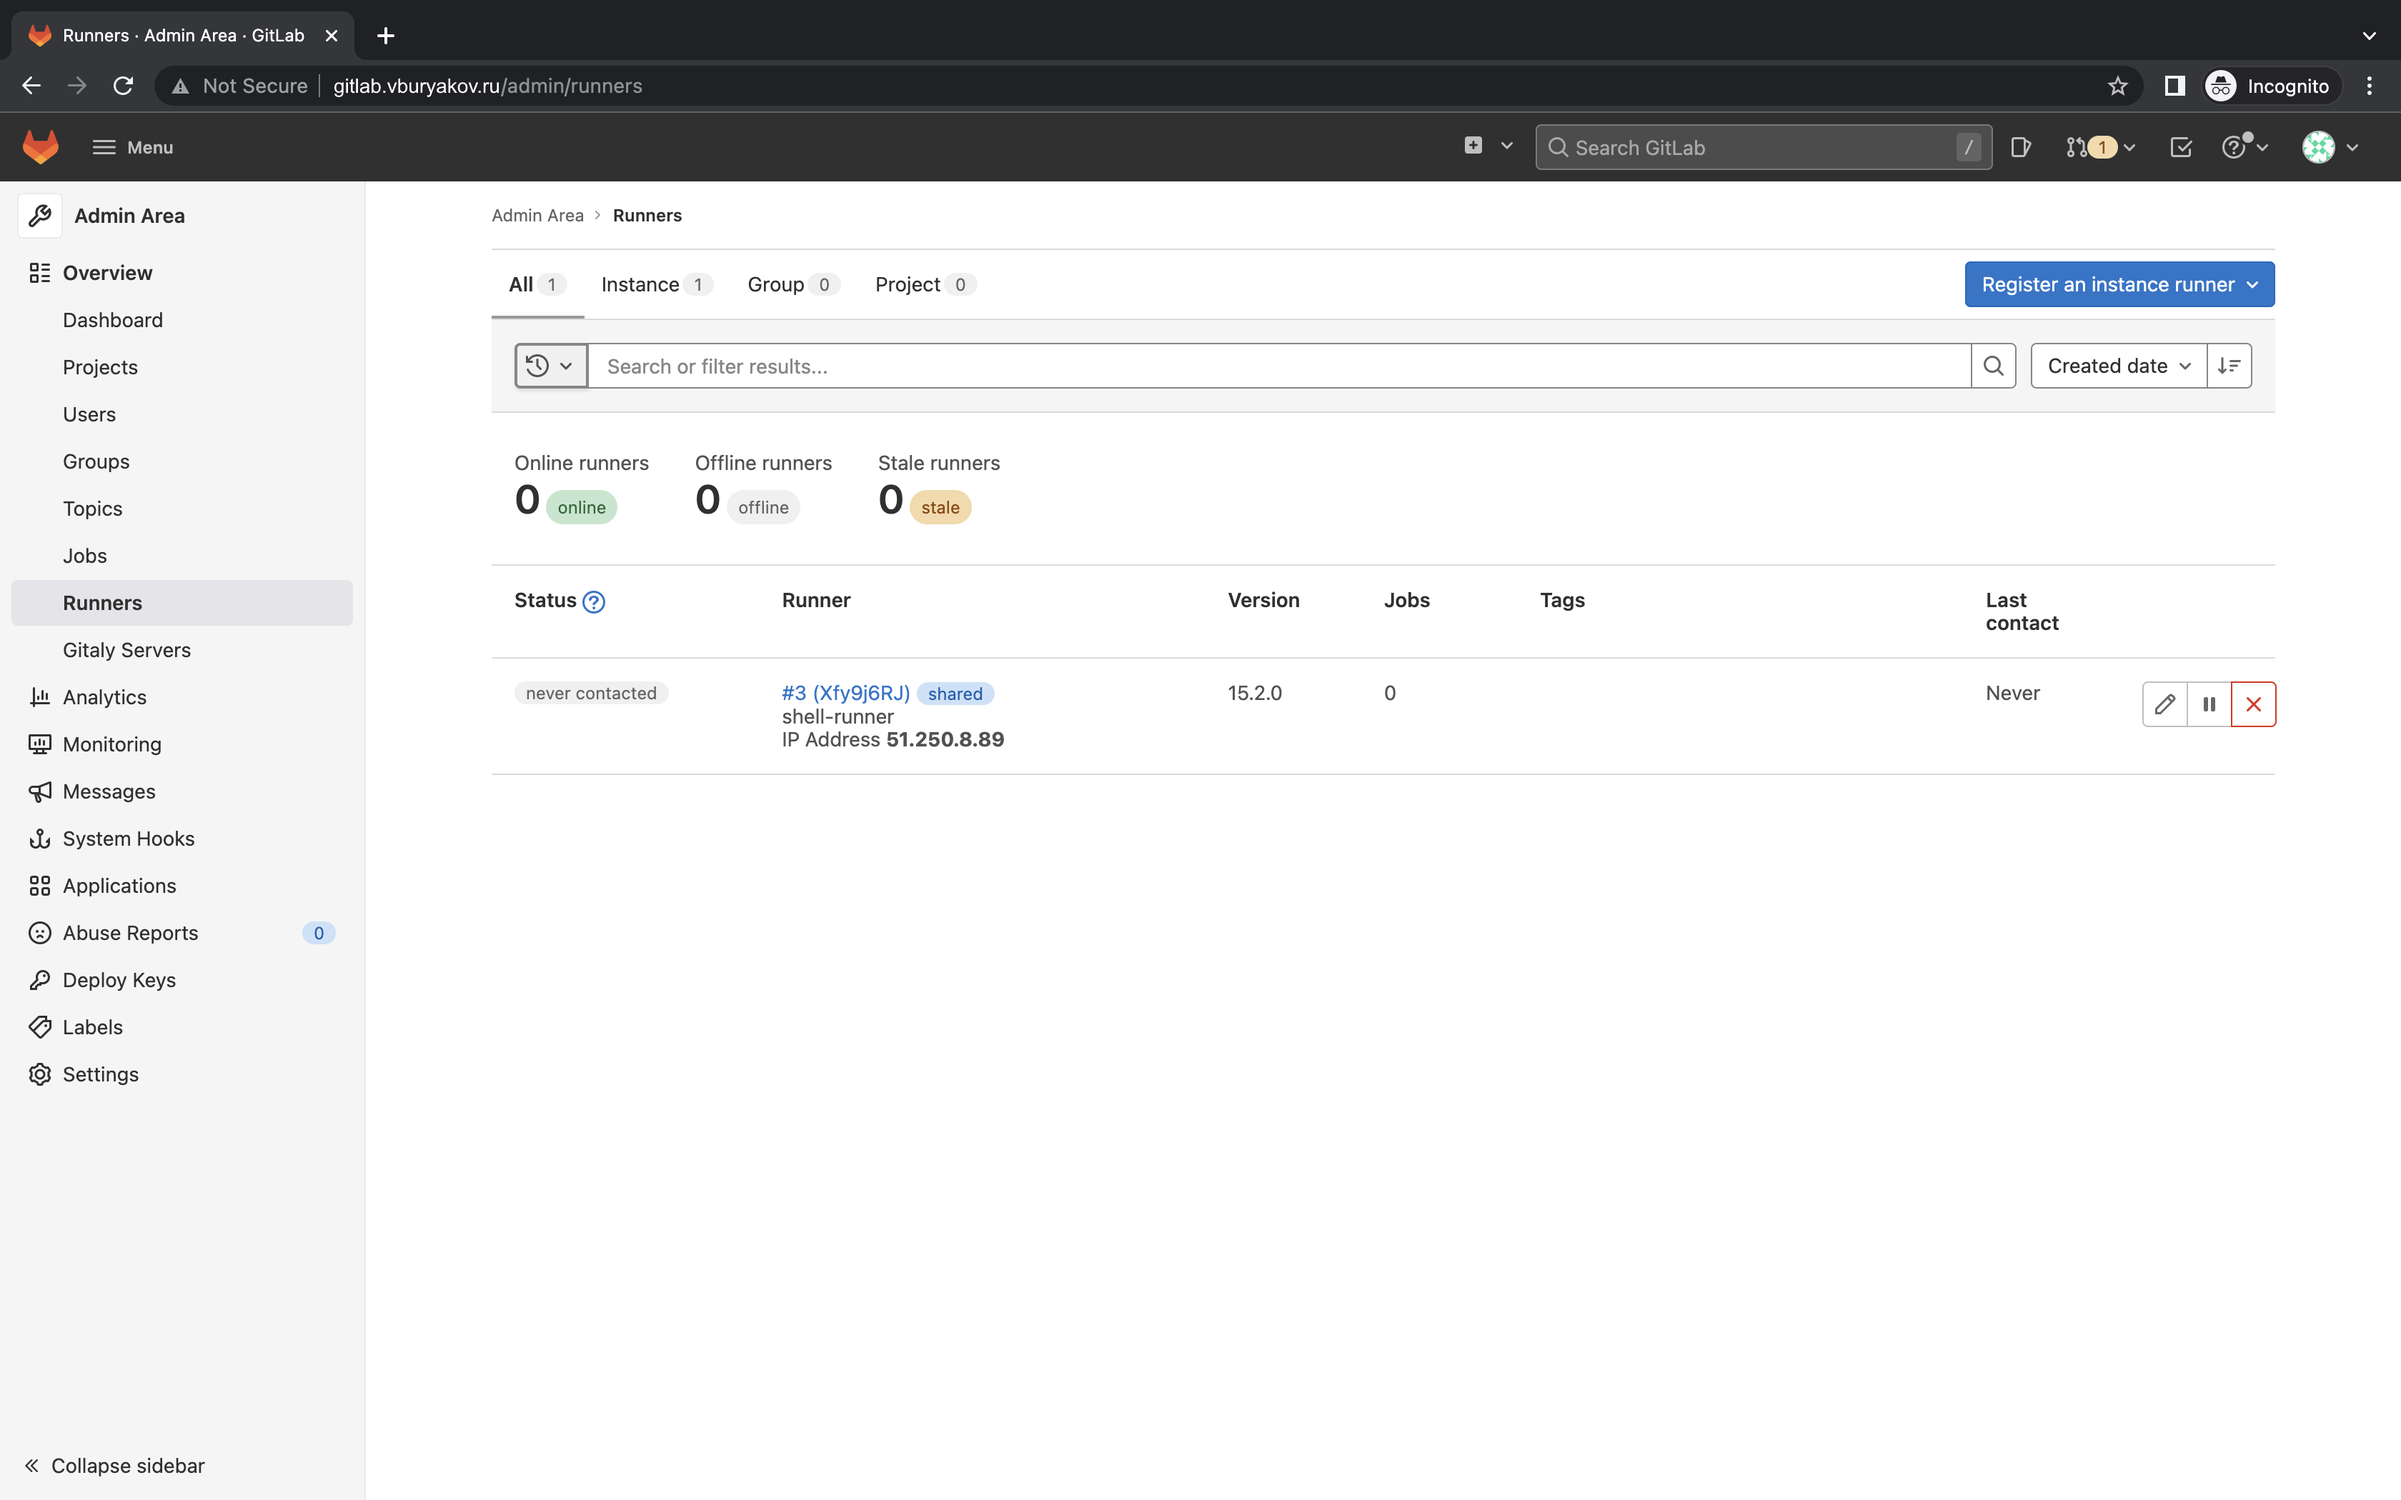
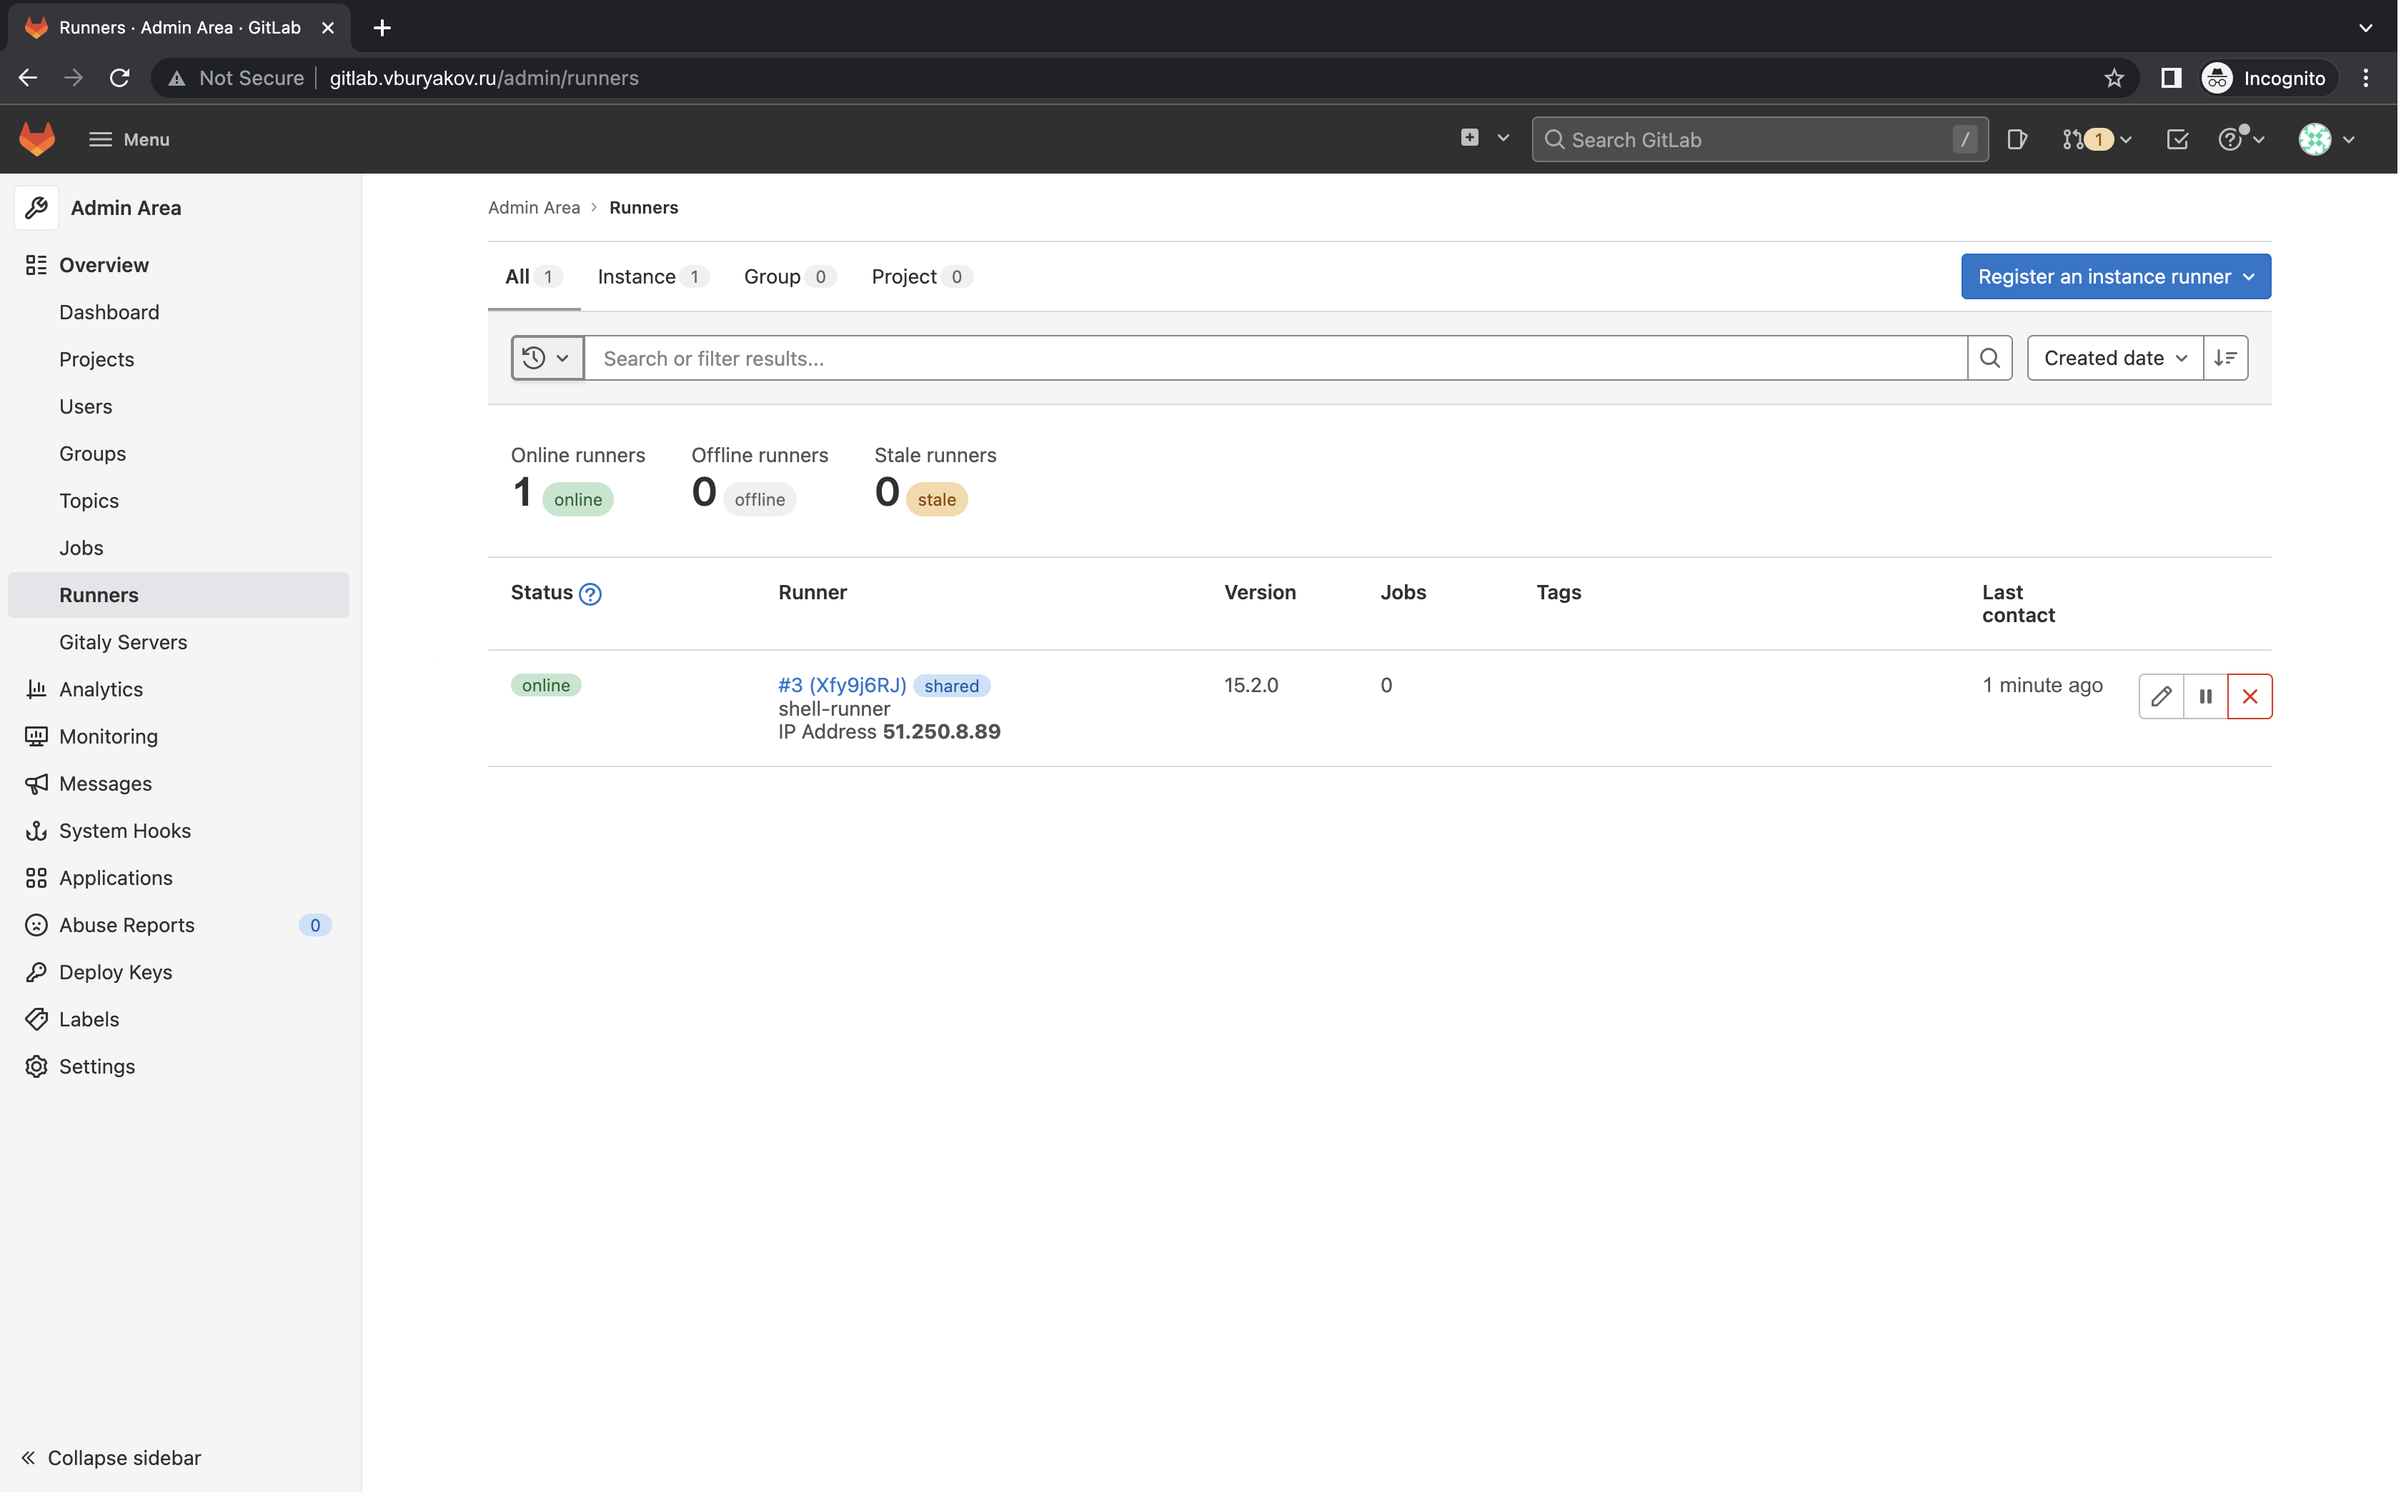
diplom доработка

diff --git a/README.md b/README.md
@@ -1,4 +1,6 @@
-# Дипломный практикум в YandexCloud
+# Дипломный практикум в YandexCloud (доработка)
+
+# В рамках доработки выложен правильный скриншот с gitlab runner. До этого случайно был выложен неактуальный скриншот.
 
 ## Подготовка к работе
 
